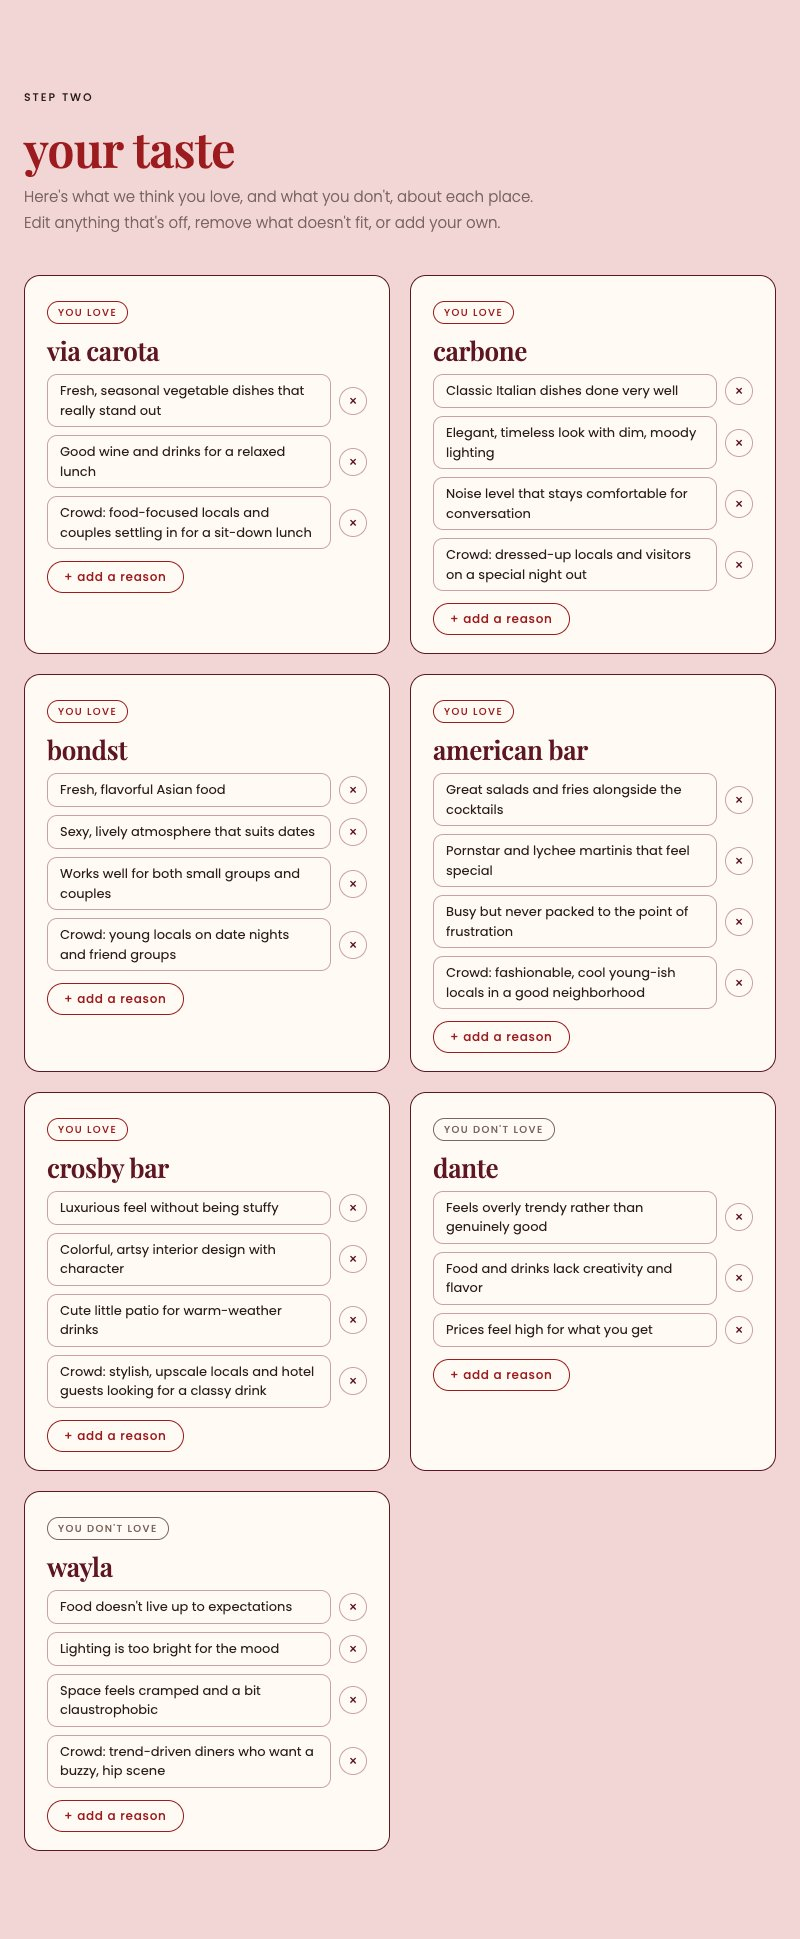
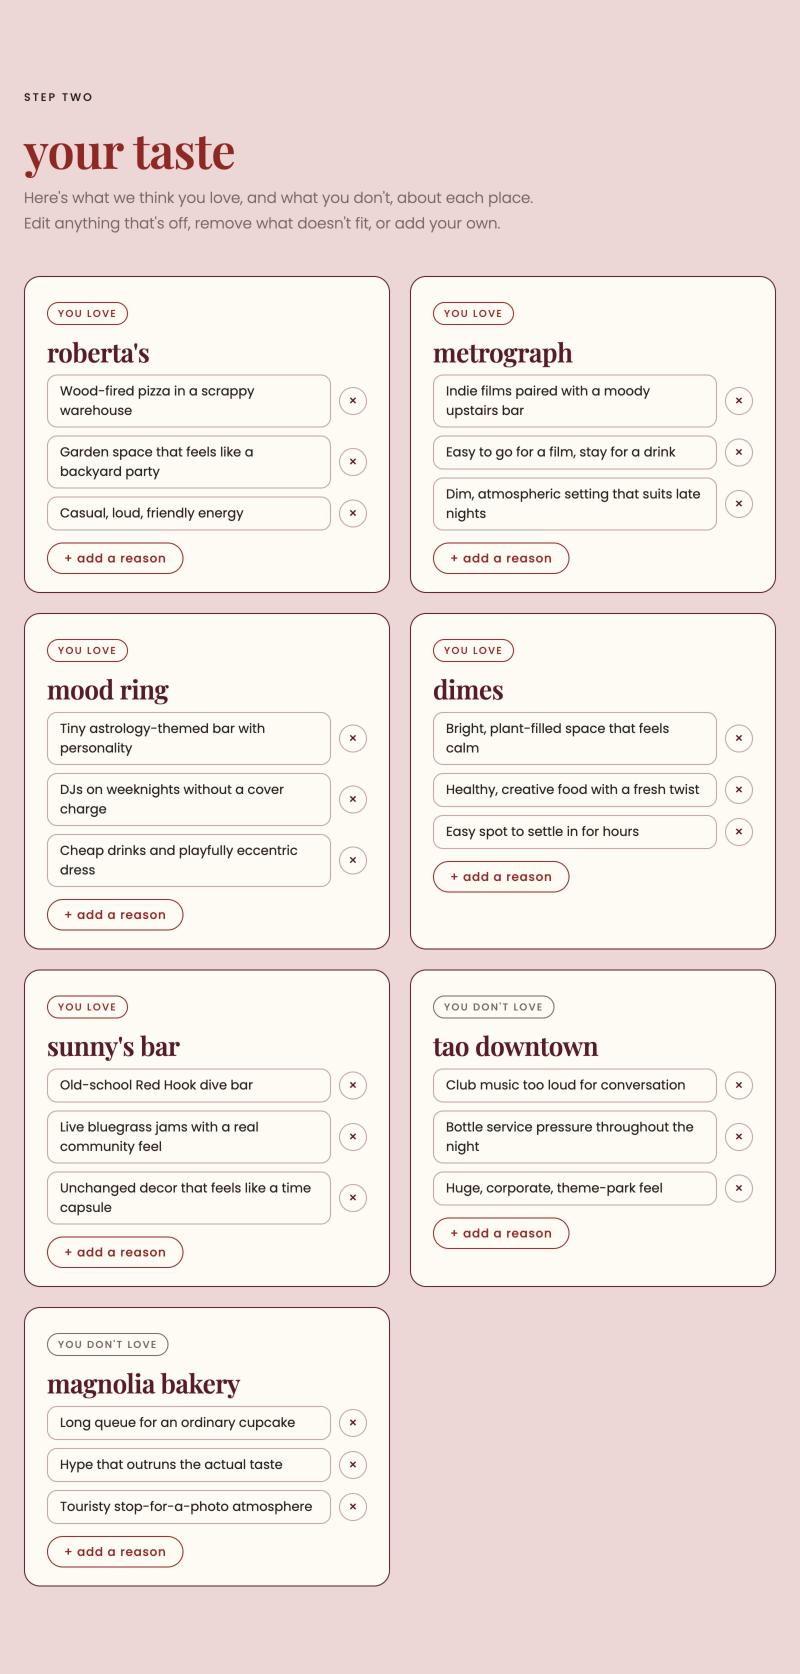
Product Page: PRD v3, live app link, new screenshots, Build 3 log
- Header: PRD v3 and Try it live link
- PRD: section 10 hosting, data and security; accounts step in How the app works;
  non-goals now shared group accounts, map view, importing likes from Beli or Google Maps
- Prototype: live status and five new screenshots from a real run (Mara persona, London)
- Cost and analytics boxes updated; Build 3 log: shipped, learned, broke (incl. the sleep
  workaround and AGENTS.md rules), PRD changes, next, cost and 3 hours

Changed region(s): [[0.0312, 0.0311, 0.9688, 0.963], [0.4375, 0.6213, 0.4688, 0.7145], [0.4062, 0.8387, 0.4688, 0.9008]]

diff --git a/docs/index.html b/docs/index.html
@@ -119,8 +119,10 @@
       <p class="eyebrow">NYU Stern · Building with AI · Fall 2026</p>
       <h1>Taste Passport</h1>
       <p class="tagline">Same taste, new city.</p>
-      <p class="meta">Esra Karamanci (ek2750) · PRD v2, November 15, 2026 (v1: November 8)</p>
+      <p class="meta">Esra Karamanci (ek2750) · PRD v3, November 20, 2026 (v2: November 15, v1: November 8)</p>
+      <p class="meta"><strong>Try it live:</strong> <a href="https://taste-passport-7jya.onrender.com">taste-passport-7jya.onrender.com</a> (works on your phone; the first visit can take a few seconds)</p>
       <nav>
+        <a href="https://taste-passport-7jya.onrender.com">Live app</a>
         <a href="#prd">PRD</a>
         <a href="#prototype">Prototype</a>
         <a href="#costs">Costs &amp; Analytics</a>
@@ -183,16 +185,16 @@
         </thead>
         <tbody>
           <tr>
-            <td>Member accounts</td>
-            <td>For now, friends join a trip through a share link and add their own favorites and dislikes. Inviting members with their own accounts would need logins and a user database, which adds a lot of complexity without changing what the product does at this stage.</td>
+            <td>Shared group accounts</td>
+            <td>There won't be a shared trip that everyone logs into, with members, permissions and a group profile. Only the person planning the trip has an account. Friends join through a share link and add their favorites and dislikes without signing up. A full group account system would add a lot of work and slow friends down, without making the picks any better.</td>
           </tr>
           <tr>
-            <td>Google Maps import and map view</td>
-            <td>Importing saved places and showing picks on a map would make the app easier to use, but neither is needed to test whether the taste matching works.</td>
+            <td>Map view</td>
+            <td>Showing every pick on one map would be nice, but each pick already links to Google Maps, and a map isn't needed to test whether the taste matching works.</td>
           </tr>
           <tr>
-            <td>Booking, reservations and itineraries</td>
-            <td>Every travel app already competes on logistics. The value here is taste, and picks can link out to book.</td>
+            <td>Importing likes from Beli or Google Maps</td>
+            <td>Pulling in places people already saved in apps like Beli or Google Maps would mean less typing, but voice input already makes entering places quick, and the notes on why you love each place are what make the picks personal.</td>
           </tr>
         </tbody>
       </table>
@@ -206,7 +208,7 @@
 
       <h3>7. Biggest risk and how Build 2 tests it (PRD v2)</h3>
       <p><strong>Biggest risk:</strong> the app understands my taste at home but can't carry it to a new city. If two very different people get similar guides, or the picks are generic, popular or touristy instead of personal, the product doesn't work.</p>
-      <p><strong>How this build tests it:</strong> I created three test personas who live in New York and have clearly different taste, each with 5 favorites and 2 dislikes with notes: Mara (alternative and artsy), Brooke (mainstream and trendy) and Sam (a budget foodie). Their tastes clash on purpose. Brooke dislikes two of Mara's favorites, and Sam dislikes two of Brooke's. A script sends all three through the real app for London and Istanbul, the two cities I know best, so I can judge every pick. I ran it after every change and compared the results side by side. Beyond the personas, my pod already tested the Build 1 prototype in class last week (November 10) and suggested two of this build's features (voice input and booking links), and this week my friend Danielle tried it with her own New York favorites for a trip to London (screenshots below). Against my target of 7 out of 10 picks a tester would actually go to, <strong>Danielle rated her London guide 8 out of 10</strong>. My friend Selin tried an earlier version for Istanbul and rated it <strong>5.5 out of 10</strong>, below the target, which matches what I saw with the personas: Istanbul is harder. The first row is where Build 1 left off; every row after it is a version I made during Build 2.</p>
+      <p><strong>How this build tests it:</strong> I created three test personas who live in New York and have clearly different taste, each with 5 favorites and 2 dislikes with notes: Mara (alternative and artsy), Brooke (mainstream and trendy) and Sam (a budget foodie). Their tastes clash on purpose. Brooke dislikes two of Mara's favorites, and Sam dislikes two of Brooke's. A script sends all three through the real app for London and Istanbul, the two cities I know best, so I can judge every pick. I ran it after every change and compared the results side by side. Beyond the personas, my pod already tested the Build 1 prototype in class last week (November 10) and suggested two of this build's features (voice input and booking links), and this week my friend Danielle tried it with her own New York favorites for a trip to London. Against my target of 7 out of 10 picks a tester would actually go to, <strong>Danielle rated her London guide 8 out of 10</strong>. My friend Selin tried an earlier version for Istanbul and rated it <strong>5.5 out of 10</strong>, below the target, which matches what I saw with the personas: Istanbul is harder. The first row is where Build 1 left off; every row after it is a version I made during Build 2.</p>
       <table>
         <thead>
           <tr><th>Version</th><th>What changed</th><th>What happened</th></tr>
@@ -238,8 +240,25 @@
         <li><strong>Guide:</strong> the server sends the reviewed taste, destination and trip purpose back to the AI. The AI first matches each favorite's home neighborhood to a neighborhood in the destination, can do one web search to check current places, and then picks 1–2 neighborhoods to stay in, 5 places to eat and 3 places to drink. Each pick is tied to a favorite and the reason why.</li>
         <li><strong>Checks:</strong> the server checks every guide before showing it. If it has too few places, or more than 60% of the picks are in one neighborhood, it asks the AI once more and says what to fix. If a reply comes back broken, it gets repaired automatically. Every AI call prints its token count and cost in the terminal.</li>
         <li><strong>Booking links:</strong> every pick has a Google Maps link, and neighborhoods have a Google Hotels link. For each place to eat, the server does one small web search in the background to find the real booking page (e.g. OpenTable, SevenRooms or the restaurant's own reservations page). A link is only used if the search actually returned it. If there's no booking page, the card shows the restaurant's own website (checked to load and mention the restaurant) and a Google search. In tests, London restaurants almost always got a real booking page. Istanbul restaurants often don't book online, so about half got a booking page or website.</li>
-        <li><strong>Analytics:</strong> PostHog records pageviews, clicks and session replays on this page and in the app. Text people type is hidden in replays.</li>
+        <li><strong>Analytics:</strong> PostHog records pageviews, clicks and session replays on this page and in the live app. Text people type is hidden in replays.</li>
+        <li><strong>Accounts (optional):</strong> people can sign in with an email and password. Signed in, they can save their places for each home city (with their taste reading), and every guide they make is saved as a trip. Picking a saved city they haven't changed skips the taste reading and goes straight to the trip. Guests can still use everything without saving.</li>
       </ol>
+
+      <h3>10. Hosting, data and security (PRD v3)</h3>
+      <p>Build 3 took the app from my laptop to a real address that anyone can open on their phone.</p>
+      <table>
+        <thead>
+          <tr><th>Choice</th><th>What I picked</th><th>Why</th></tr>
+        </thead>
+        <tbody>
+          <tr><td>Hosting</td><td>Render, free web service</td><td>My app is a small Node server, which is what Render is for, so it needed almost no changes. Every push to GitHub deploys it automatically. The free plan falls asleep after 15 quiet minutes, so a free uptime monitor (UptimeRobot) visits it every 5 minutes to keep it awake for testers.</td></tr>
+          <tr><td>Sign-in</td><td>Optional, email + password (Supabase)</td><td>Optional so my pod and new testers can try it in seconds. Email + password instead of login links, because Supabase's free plan only sends a few emails an hour, which would break if a whole class signed up at once.</td></tr>
+          <tr><td>Database</td><td>Supabase (Postgres, free plan)</td><td>Two tables: saved places (one list per home city, with the taste reading) and trips (every guide). Row Level Security is on for both, so each person can only see and change their own rows, and visitors who aren't signed in get nothing.</td></tr>
+          <tr><td>Secrets</td><td>Kept on the server</td><td>My OpenRouter key lives only in Render's settings and never reaches the browser. The page only has keys that are meant to be public (Supabase's publishable key and PostHog's key).</td></tr>
+          <tr><td>Cost protection</td><td>Rate limits + spending cap</td><td>Each visitor gets 25 AI requests per 10 minutes, and the whole app 400 a day. The live app has its own OpenRouter key with a $5 cap and no auto top-up, so a surprise bill can't happen.</td></tr>
+        </tbody>
+      </table>
+      <p><strong>Security audit:</strong> I tested that Account B can't read, change or delete Account A's data (12 out of 12 checks passed), that the AI routes start refusing after 25 calls, and that no secret keys are in the repo or the live page. An AI security review found 7 issues, and all of them are fixed. Full details are in <a href="https://github.com/building-with-ai-f26/ek2750-taste-passport/blob/main/SECURITY.md">SECURITY.md</a>.</p>
 
       <h3>9. Cost per user run</h3>
       <div class="callout">
@@ -278,24 +297,28 @@
     <!-- PROTOTYPE -->
     <section id="prototype">
       <h2>Prototype</h2>
-      <p><strong>Status:</strong> Build 2 local version. Runs on my laptop with Claude Haiku 5.5 and one web search through OpenRouter, with PostHog analytics.</p>
-      <p>The first slice of the core workflow works end to end: add 5+ favorite and 2+ disliked places with a note on each (typed or spoken), review and edit what the AI thinks I love or dislike about each one and who the crowd is, enter a destination and trip purpose, and get a guide with 1–2 neighborhoods, 5 places to eat and 3 places to drink. Every pick is tied to a specific favorite, has map and booking links, and is marked unverified.</p>
-      <p>The screenshots below are a real run with my friend Danielle's New York favorites for a trip to London.</p>
+      <p><strong>Status:</strong> Build 3, live at <a href="https://taste-passport-7jya.onrender.com">taste-passport-7jya.onrender.com</a>. Runs on Render with Claude Haiku 5.5 and one web search through OpenRouter, optional sign-in and saved data on Supabase, and PostHog analytics.</p>
+      <p>The core workflow works end to end: add 5+ favorite and 2+ disliked places with a note on each (typed or spoken), review and edit what the AI thinks I love or dislike about each one and who the crowd is, enter a destination and trip purpose, and get a guide with 1–2 neighborhoods, 5 places to eat and 3 places to drink. Every pick is tied to a specific favorite and has map and booking links. Signed in, my places and taste are saved for each home city and every guide is saved as a trip.</p>
+      <p>The screenshots below are a real run of the current version with Mara, one of my test personas (artsy, lives in Bushwick), and her New York favorites for a 4-day trip to London with a friend.</p>
       <figure>
-        <img src="images/flow-1-places.jpg" alt="Step one: home city set to New York, five favorite places (Via Carota, Carbone, BONDST, American Bar, Crosby Bar) and two disliked places (Dante, Wayla), each with a note and a speak button for voice input." />
-        <figcaption>1. Add favorite and disliked places from home, with a short note on each. Type it, or tap "speak" and say it.</figcaption>
+        <img src="images/flow-0-start.jpg" alt="Opening screen: same taste, new city, with a sign in button and a continue without signing in button, plus sign in at the top right." />
+        <figcaption>Start by signing in to save your places and guides, or just continue without an account.</figcaption>
       </figure>
       <figure>
-        <img src="images/flow-2-taste.jpg" alt="Step two: one card per place listing what the AI thinks she loves or dislikes about it, including a Crowd line, each reason editable or removable." />
-        <figcaption>2. Review what the AI thinks you love and dislike about each place, including who the crowd is, and edit anything that's off.</figcaption>
+        <img src="images/flow-1-places.jpg" alt="Step one: 'your places' next to a red 'where you call home' panel with New York as the home city, then five favorite places (Roberta's, Metrograph, Mood Ring, Dimes, Sunny's Bar) and two disliked places (Tao Downtown, Magnolia Bakery), each with a note and a speak button." />
+        <figcaption>1. Add favorite and disliked places from home, with a short note on each. Type it, or tap "speak" and say it. Signed in, you can save these for each home city.</figcaption>
       </figure>
       <figure>
-        <img src="images/flow-3-trip.jpg" alt="Step three: destination set to London and trip purpose set to a trip with friends and boyfriend." />
+        <img src="images/flow-2-taste.jpg" alt="Step two: one card per place listing what the AI thinks she loves or dislikes about it, each reason editable or removable." />
+        <figcaption>2. Review what the AI thinks you love and dislike about each place, and edit anything that's off.</figcaption>
+      </figure>
+      <figure>
+        <img src="images/flow-3-trip.jpg" alt="Step three: destination set to London and trip purpose set to a 4-day trip with a friend." />
         <figcaption>3. Enter where you're going and what the trip is for.</figcaption>
       </figure>
       <figure>
-        <img src="images/flow-4-guide.jpg" alt="The finished London guide: Soho and Marylebone to stay in, five places to eat and three places to drink, each with a reason tied to a New York favorite, map and booking links, and an unverified tag." />
-        <figcaption>4. Get a guide to London where every pick is tied to a New York favorite, with Map, Book a table (when a real booking page was found, e.g. SevenRooms for Bocca di Lupo) and Website links.</figcaption>
+        <img src="images/flow-4-guide.jpg" alt="The finished London guide: Dalston and Shoreditch to stay in, five places to eat and three places to drink, each with a reason tied to one of Mara's New York favorites, plus Map, Book a table and Website links." />
+        <figcaption>4. Get a guide to London where every pick is tied to a New York favorite, with Map, Book a table (when a real booking page was found, e.g. OpenTable for Ottolenghi Spitalfields) and Website links.</figcaption>
       </figure>
     </section>
 
@@ -305,15 +328,15 @@
       <div class="grid-2">
         <div class="stat-box">
           <div class="stat-label">Cumulative Build Spend</div>
-          <div class="stat-value">About $3.62 OpenRouter + Claude Pro</div>
+          <div class="stat-value">About $3.80 OpenRouter + Claude Pro (Render, Supabase and UptimeRobot are free)</div>
         </div>
         <div class="stat-box">
           <div class="stat-label">Est. Cost Per User Run</div>
           <div class="stat-value">About $0.05 (Haiku + 1 web search, plus booking link searches)</div>
         </div>
         <div class="stat-box">
-          <div class="stat-label">User Evidence (Analytics from Build 2)</div>
-          <div class="stat-value">PostHog live on this page and the app: pageviews, clicks and session replays verified</div>
+          <div class="stat-label">User Evidence (Analytics)</div>
+          <div class="stat-value">PostHog live on this page and the live app: pageviews, clicks and session replays verified on onrender.com</div>
         </div>
         <div class="stat-box">
           <div class="stat-label">Sponsor Call (Week 6)</div>
@@ -408,11 +431,49 @@
       </div>
 
       <div class="log-entry">
-        <h3>Build 3 · Build.exe: The Core Workflow (Due Nov 23)</h3>
+        <h3>Build 3 · Go Live & Security Audit (Due Nov 23)</h3>
         <ul>
-          <li><strong>What shipped:</strong> [End-to-end workflow working with real inputs + PostHog funnel events]</li>
-          <li><strong>What broke / changed in PRD:</strong> [Fill in]</li>
-          <li><strong>Cost & time this week:</strong> $[0.00] · [0] hours</li>
+          <li><strong>What shipped:</strong>
+            <ul>
+              <li>Taste Passport is live! Anyone can open <a href="https://taste-passport-7jya.onrender.com">taste-passport-7jya.onrender.com</a> on their phone and get a guide. It's on Render's free plan.</li>
+              <li>Sign-in (optional). I didn't want to keep typing my New York places every time, so now you can save your places for each home city. If you haven't changed anything, picking a saved city skips the taste reading and takes you straight to where you're going. Every guide I make is saved under "your trips."</li>
+              <li>A redesign of the first step so it looks more like the Pinterest page I had in mind from the start, plus a menu for saved places, trips and signing out.</li>
+              <li>A full security audit (<a href="https://github.com/building-with-ai-f26/ek2750-taste-passport/blob/main/SECURITY.md">SECURITY.md</a>), a $5 spending cap on the live app's OpenRouter key, and rate limits so nobody can run up my bill.</li>
+            </ul>
+          </li>
+          <li><strong>Things learned with AI:</strong>
+            <ul>
+              <li><em>Going live:</em> the live site only changes when I push to GitHub. Before that, changes only exist on my laptop, which is actually nice because I can try things without anyone seeing them.</li>
+              <li><em>Picking a host:</em> it depends on what you built. My app is a Node server, so Render was the easy choice. Vercel would have meant rebuilding how the app is set up.</li>
+              <li><em>Servers forget, databases remember:</em> anything you want to keep has to live in a real database, because free hosts restart the server all the time.</li>
+              <li><em>Row Level Security:</em> the database itself checks that every person only sees their own data, even if someone tries to get around the app. I tested it with two accounts and the second one couldn't see anything from the first.</li>
+              <li><em>Public vs. secret keys:</em> some keys are fine in the browser (Supabase's publishable key, PostHog's) and some never should be (my OpenRouter key).</li>
+              <li><em>Free plans have catches:</em> Render sleeps after 15 minutes, Supabase pauses after a week, and Supabase doesn't back anything up for you, so I exported my own backup.</li>
+            </ul>
+          </li>
+          <li><strong>What broke:</strong>
+            <ul>
+              <li><em>My first deploy failed</em> because I typed "nom install" instead of "npm install." The app was fine, Render just couldn't find a command called "nom."</li>
+              <li><em>The app fell asleep.</em> Render's free plan shuts the app down after 15 minutes with no visitors, and the next person waits almost a minute for it to wake up. That's bad for friends testing at random times, so I set up UptimeRobot (free) to visit the app every 5 minutes and keep it awake. It only loads the page, so it doesn't cost anything or mess up my PostHog data.</li>
+              <li><em>I locked myself out</em> for 10 minutes by running my own rate limit test. So at least I know it works.</li>
+              <li><em>Saved places were confusing at first.</em> The save button was at the top of the page, I couldn't go back to an empty form after loading a city, and it made me read my taste again even when nothing had changed. I tested it, gave feedback and fixed all of these.</li>
+              <li><em>Claude jumped ahead of me.</em> It started to commit without asking, and later wrote rules into AGENTS.md before I had picked them. I added three "rules from real mistakes" to AGENTS.md:
+                <ul>
+                  <li>Wait for my answer before acting on anything that's my choice, including commits.</li>
+                  <li>No blanket rules in the AI prompts, like "stay central" or "not touristy." In Build 2, rules like these overrode people's actual taste and sent everyone to the same areas. Every steer has to come from the person's own places and notes.</li>
+                  <li>Before any test that costs money (like running the personas), say what it will cost and wait for my OK. In Build 2, Claude re-ran the same paid tests just to look at the results again.</li>
+                </ul>
+              </li>
+            </ul>
+          </li>
+          <li><strong>What changed in the PRD:</strong> PRD v3 adds section 10 (hosting, data and security) and an accounts step in "How the app works." I changed the non-goals: personal accounts are in now (your places and guides are saved), so that non-goal became "shared group accounts." I also swapped "booking and reservations" for "importing likes from Beli or Google Maps." And I took the "unverified" tag off the guide cards.</li>
+          <li><strong>What's next:</strong>
+            <ul>
+              <li><em>More testers, now that it's live:</em> testing used to mean running it on my laptop. Now I can just send a link, so I sent it to my pod and to friends outside the class. I'm asking everyone to send me their score (how many of the picks they'd actually go to) so I can check it against my 7 out of 10 target. My pod will also test it on their phones in class on November 24.</li>
+              <li><em>Invite travel companions:</em> a link friends can open to add their own favorites and dislikes.</li>
+            </ul>
+          </li>
+          <li><strong>Cost & time this week:</strong> About $0.20 on OpenRouter, just my own live tests (all the security tests were set up to never reach the AI). Render, Supabase and UptimeRobot are free · 3 hours</li>
         </ul>
       </div>
 
